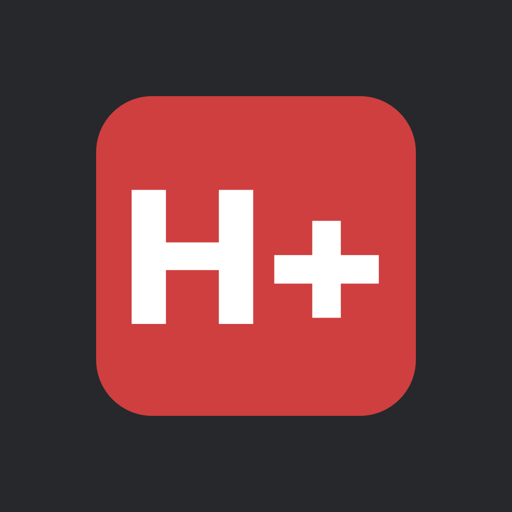
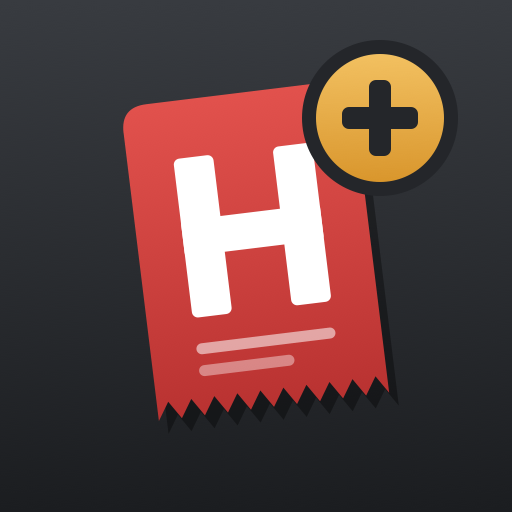
Add files via upload

Changed region(s): [[0.1875, 0.0938, 0.875, 0.8125]]

diff --git a/index.html b/index.html
@@ -63,6 +63,10 @@ button:focus-visible, textarea:focus-visible { outline: 2px solid var(--fg); out
   background: var(--surface); flex: none; position: relative; z-index: 1; }
 .bar h1 { font-family: var(--display); font-weight: 700; font-size: 26px; margin: 0; flex: 1; min-width: 0;
   white-space: nowrap; overflow: hidden; text-overflow: ellipsis; letter-spacing: .02em; }
+.brand { display: flex; align-items: center; gap: 8px; }
+.brand .mark { width: 38px; height: 38px; flex: none; fill: none; stroke: none; }
+.brand .mark * { stroke: none; }
+.brand em { font-style: normal; color: var(--new); }
 .bar h1 small { font-family: var(--body); font-weight: 500; font-size: 14px; color: var(--muted); margin-left: 7px; letter-spacing: 0; }
 .btn { font-family: var(--display); font-weight: 600; font-size: 18px; letter-spacing: .05em; text-transform: uppercase;
   padding: 0 14px; height: 42px; border-radius: 10px; background: var(--surface-2); display: inline-flex; align-items: center; gap: 7px; flex: none;
@@ -206,14 +210,19 @@ textarea { width: 100%; box-sizing: border-box; min-height: 84px; resize: vertic
 .toast i { width: 22px; height: 22px; border-radius: 50%; background: var(--save); color: #fff; display: grid; place-items: center; flex: none; }
 .toast i svg { width: 14px; height: 14px; stroke-width: 3.2; }
 @keyframes toast { from { transform: translate(-50%, 12px); opacity: 0; } }
-.haptic { position: fixed; left: -100px; top: 0; width: 1px; height: 1px; opacity: 0; pointer-events: none; }
+.pane { flex: 1; position: relative; overflow: hidden; }
+.pane > .scroll { position: absolute; inset: 0; background: var(--bg); z-index: 2; }
+.pane > #o-under { z-index: 1; }
+.pane .dragging { box-shadow: -10px 0 30px var(--shadow); }
+.pane .enter { animation: enter .3s var(--ease); box-shadow: -10px 0 30px var(--shadow); }
+.pane .under { animation: under .26s var(--ease); }
 @media (prefers-reduced-motion: reduce) { * { animation: none !important; transition: none !important; } }
 </style>
 
 <!-- SALA -->
 <section class="view" id="v-sala">
   <div class="bar">
-    <h1>Sala</h1>
+    <h1 class="brand"><svg class="mark" viewBox="60 20 420 420" aria-hidden="true"><defs><linearGradient id="bg" x1="0" y1="0" x2="0" y2="1"><stop offset="0" stop-color="#383b40"/><stop offset="1" stop-color="#1b1d20"/></linearGradient><linearGradient id="mtk" x1="0" y1="0" x2="0" y2="1"><stop offset="0" stop-color="#e5544f"/><stop offset="1" stop-color="#b52f2e"/></linearGradient><linearGradient id="mpl" x1="0" y1="0" x2="0" y2="1"><stop offset="0" stop-color="#f2c060"/><stop offset="1" stop-color="#d9962c"/></linearGradient></defs><g transform="rotate(-7 256 260)"><path d="M140 118 Q140 92 166 92 H346 Q372 92 372 118 V408 L360.4 390 L348.8 408 L337.2 390 L325.6 408 L314.0 390 L302.4 408 L290.8 390 L279.2 408 L267.6 390 L256.0 408 L244.4 390 L232.8 408 L221.2 390 L209.6 408 L198.0 390 L186.4 408 L174.8 390 L163.2 408 L151.6 390 L140.0 408 Z" fill="url(#mtk)"/><rect x="186" y="150" width="40" height="160" rx="6" fill="#fff"/><rect x="286" y="150" width="40" height="160" rx="6" fill="#fff"/><rect x="186" y="212" width="140" height="36" rx="4" fill="#fff"/><rect x="186" y="336" width="140" height="11" rx="5.5" fill="#fff" opacity=".55"/><rect x="186" y="358" width="96" height="11" rx="5.5" fill="#fff" opacity=".4"/></g><circle cx="380" cy="118" r="78" fill="var(--surface)"/><circle cx="380" cy="118" r="64" fill="url(#mpl)"/><rect x="369" y="80" width="22" height="76" rx="7" fill="var(--surface)"/><rect x="342" y="107" width="76" height="22" rx="7" fill="var(--surface)"/></svg><span>Handy<em>+</em></span></h1>
     <button class="btn" id="b-comande">Comande <span class="count" id="n-comande">0</span></button>
     <button class="btn icon" id="b-add" aria-label="Aggiungi tavolo"><svg viewBox="0 0 24 24"><path d="M12 5v14M5 12h14"/></svg></button>
   </div>
@@ -225,7 +234,7 @@ textarea { width: 100%; box-sizing: border-box; min-height: 84px; resize: vertic
     </div>
     <div class="area"><h2>Dentro <small id="c-dentro"></small></h2><div class="tables" id="t-dentro"></div></div>
     <div class="area"><h2>Fuori <small id="c-fuori"></small></h2><div class="tables" id="t-fuori"></div></div>
-    <div class="legend"><span><i style="background:var(--free)"></i>Libero</span><span><i style="background:var(--busy)"></i>Occupato</span><span><i style="background:var(--new);border-radius:50%"></i>Da salvare</span><span id="sync">Salvato su questo telefono</span><span>Versione 2.0</span></div>
+    <div class="legend"><span><i style="background:var(--free)"></i>Libero</span><span><i style="background:var(--busy)"></i>Occupato</span><span><i style="background:var(--new);border-radius:50%"></i>Da salvare</span><span id="sync">Salvato su questo telefono</span><span>Versione 2.1</span></div>
   </div>
 </section>
 
@@ -239,7 +248,7 @@ textarea { width: 100%; box-sizing: border-box; min-height: 84px; resize: vertic
   </div>
   <div class="courses" id="courses"></div>
   <div class="groups" id="groups"></div>
-  <div class="scroll" id="o-body"></div>
+  <div class="pane"><div class="scroll" id="o-under" hidden></div><div class="scroll" id="o-body"></div></div>
 </section>
 
 <!-- LISTA -->
@@ -262,9 +271,8 @@ textarea { width: 100%; box-sizing: border-box; min-height: 84px; resize: vertic
 </section>
 
 <div id="layer"></div>
-<label class="haptic" aria-hidden="true"><input type="checkbox" switch tabindex="-1" id="haptic"></label>
 
-<script src="menu.js?v=1792409755" charset="utf-8"></script>
+<script src="menu.js?v=1792411145" charset="utf-8"></script>
 <script>
 const COURSES = [["ant", "Antipasti"], ["p1", "1ª portata"], ["p2", "2ª portata"]];
 const DRINK_GROUPS = ["BAR", "VINI", "CAFFÈ", "VIP"];
@@ -334,16 +342,20 @@ function toast(msg, ok) {
 function bump(el) { el.classList.remove("bump"); void el.offsetWidth; el.classList.add("bump"); }
 
 // ---------- vibrazione ----------
-// iPhone (iOS 18+): toccare un interruttore di sistema produce un piccolo "tic". Android: navigator.vibrate.
-const hapticSwitch = $("#haptic");
+// iPhone (iOS 18+): attivare un interruttore "switch" di sistema produce un piccolo tic. Android: navigator.vibrate.
 function haptic() {
-  try { if (navigator.vibrate) navigator.vibrate(10); else hapticSwitch.click(); } catch (e) {}
+  try {
+    if (navigator.vibrate) { navigator.vibrate(10); return; }
+    const label = document.createElement("label"); label.setAttribute("aria-hidden", "true"); label.style.display = "none";
+    const input = document.createElement("input"); input.type = "checkbox"; input.setAttribute("switch", "");
+    label.append(input); document.head.append(label); label.click(); label.remove();
+  } catch (e) {}
 }
 document.addEventListener("click", e => { if (e.target.closest("button")) haptic(); }, true);
 
 // ---------- navigazione (con swipe da sinistra) ----------
 let current = "v-sala";
-const BACK = {
+const VIEW_BACK = {
   "v-order": { to: "v-sala", prep: () => renderSala(), done: () => leaveTable() },
   "v-list": { to: "v-order", prep: () => renderOrder() },
   "v-comande": { to: "v-sala", prep: () => renderSala() },
@@ -362,15 +374,31 @@ function show(id, back = false) {
   else { to.classList.add("enter"); to.addEventListener("animationend", finish, { once: true }); }
   setTimeout(finish, 450);
 }
+function slideIn(el, cls) {
+  if (reduced) return;
+  clean(el); void el.offsetWidth; el.classList.add(cls);
+  setTimeout(() => el.classList.remove(cls), 450);
+}
+// Un passo indietro: dentro il menu prima dai piatti alle categorie, poi da una schermata alla precedente.
+function backStep() {
+  if (current === "v-order" && ui.cat !== null) return {
+    from: $("#o-body"), to: $("#o-under"),
+    prep: () => { $("#o-under").innerHTML = catsHtml(); },
+    done: () => { ui.cat = null; renderOrder(); $("#o-body").scrollTop = 0; },
+  };
+  const b = VIEW_BACK[current]; if (!b) return null;
+  return { from: $("#" + current), to: $("#" + b.to), prep: b.prep, done: () => { b.done?.(); current = b.to; } };
+}
 function goBack() {
-  const b = BACK[current]; if (!b) return;
+  if (current === "v-order" && ui.cat !== null) { ui.cat = null; renderOrder(); $("#o-body").scrollTop = 0; slideIn($("#o-body"), "under"); return; }
+  const b = VIEW_BACK[current]; if (!b) return;
   b.prep?.(); b.done?.(); show(b.to, true);
 }
 
 let sw = null;
 const EDGE = 32;
 document.addEventListener("touchstart", e => {
-  if (!BACK[current] || $("#layer").children.length || e.touches.length > 1) return;
+  if ($("#layer").children.length || e.touches.length > 1 || !backStep()) return;
   const t = e.touches[0]; if (t.clientX > EDGE) return;
   sw = { x: t.clientX, y: t.clientY, lastX: t.clientX, lastT: performance.now(), v: 0, active: false };
 }, { passive: true });
@@ -380,13 +408,15 @@ document.addEventListener("touchmove", e => {
   if (!sw.active) {
     if (Math.abs(dy) > 12 && Math.abs(dy) > Math.abs(dx)) { sw = null; return; }
     if (dx < 8) return;
-    const b = BACK[current]; b.prep?.();
-    sw.active = true; sw.from = $("#" + current); sw.to = $("#" + b.to);
-    sw.to.hidden = false; sw.from.classList.add("dragging");
+    const st = backStep(); if (!st) { sw = null; return; }
+    st.prep?.();
+    Object.assign(sw, { active: true, step: st, from: st.from, to: st.to });
+    st.to.hidden = false; st.from.classList.add("dragging");
   }
   e.preventDefault();
   const now = performance.now(); sw.v = (t.clientX - sw.lastX) / Math.max(1, now - sw.lastT); sw.lastX = t.clientX; sw.lastT = now;
-  const W = innerWidth, x = Math.max(0, dx), p = x / W;
+  const W = sw.from.offsetWidth || innerWidth, x = Math.max(0, dx), p = Math.min(1, x / W);
+  sw.x0 = x;
   sw.from.style.transform = `translateX(${x}px)`;
   sw.to.style.transform = `translateX(${-28 * (1 - p)}%)`;
   sw.to.style.filter = `brightness(${0.7 + 0.3 * p})`;
@@ -395,7 +425,7 @@ document.addEventListener("touchmove", e => {
 function endSwipe() {
   if (!sw) return;
   const s = sw; sw = null; if (!s.active) return;
-  const W = innerWidth, x = parseFloat(s.from.style.transform.slice(11)) || 0;
+  const W = s.from.offsetWidth || innerWidth, x = s.x0 || 0;
   const commit = x > W * 0.4 || (s.v > 0.45 && x > 30);
   const tr = "transform .25s cubic-bezier(.2,.8,.2,1), filter .25s";
   s.from.style.transition = tr; s.to.style.transition = tr;
@@ -405,7 +435,8 @@ function endSwipe() {
     s.to.style.filter = commit ? "brightness(1)" : "brightness(.7)";
   });
   setTimeout(() => {
-    if (commit) { const b = BACK[current]; b.done?.(); s.from.hidden = true; current = b.to; }
+    const isView = s.from.classList.contains("view");
+    if (commit) { s.step.done(); if (isView) s.from.hidden = true; else s.to.hidden = true; }
     else s.to.hidden = true;
     clean(s.from); clean(s.to);
   }, 270);
@@ -503,6 +534,14 @@ function openOrder(n) {
   $("#o-title").innerHTML = `T ${n}<small>${order(n).covers} cop.</small>`;
   renderOrder(); show("v-order");
 }
+function catsHtml() {
+  const ls = lines(ui.table), g = MENU.find(x => x.group === ui.group);
+  const qtyOf = name => ls.filter(l => l.name === name).reduce((s, l) => s + l.qty, 0);
+  return `<div class="cats">${g.categories.map((c, i) => {
+    const n = c.items.reduce((s, it) => s + qtyOf(it[0]), 0);
+    return `<button class="cat" style="--c:${CAT_COLORS[c.name] || "#555"}" data-cat="${i}">${esc(c.name)}${n ? `<span class="n">${n}</span>` : ""}</button>`;
+  }).join("")}</div>`;
+}
 function renderOrder() {
   const drinks = DRINK_GROUPS.includes(ui.group);
   const ls = lines(ui.table);
@@ -514,10 +553,7 @@ function renderOrder() {
   const g = MENU.find(x => x.group === ui.group);
   const qtyOf = name => ls.filter(l => l.name === name).reduce((s, l) => s + l.qty, 0);
   if (ui.cat === null) {
-    $("#o-body").innerHTML = `<div class="cats">${g.categories.map((c, i) => {
-      const n = c.items.reduce((s, it) => s + qtyOf(it[0]), 0);
-      return `<button class="cat" style="--c:${CAT_COLORS[c.name] || "#555"}" data-cat="${i}">${esc(c.name)}${n ? `<span class="n">${n}</span>` : ""}</button>`;
-    }).join("")}</div>`;
+    $("#o-body").innerHTML = catsHtml();
   } else {
     const c = g.categories[ui.cat], col = CAT_COLORS[c.name] || "#555";
     $("#o-body").innerHTML = `<div class="crumb" style="--c:${col}"><button class="btn" id="b-cats">${ICON.back}Categorie</button><strong><i></i>${esc(c.name)}</strong></div>
@@ -532,8 +568,8 @@ function renderOrder() {
 $("#courses").onclick = e => { const b = e.target.closest("[data-c]"); if (b) { ui.course = b.dataset.c; renderOrder(); } };
 $("#groups").onclick = e => { const b = e.target.closest("[data-g]"); if (b) { ui.group = b.dataset.g; ui.cat = null; renderOrder(); $("#o-body").scrollTop = 0; } };
 $("#o-body").onclick = e => {
-  if (e.target.closest("#b-cats")) { ui.cat = null; return renderOrder(); }
-  const c = e.target.closest("[data-cat]"); if (c) { ui.cat = +c.dataset.cat; renderOrder(); $("#o-body").scrollTop = 0; return; }
+  if (e.target.closest("#b-cats")) return goBack();
+  const c = e.target.closest("[data-cat]"); if (c) { ui.cat = +c.dataset.cat; renderOrder(); $("#o-body").scrollTop = 0; slideIn($("#o-body"), "enter"); return; }
   const it = e.target.closest("[data-i]"); if (!it) return;
   const cat = MENU.find(x => x.group === ui.group).categories[ui.cat];
   const [name, price, info] = cat.items[+it.dataset.i];
